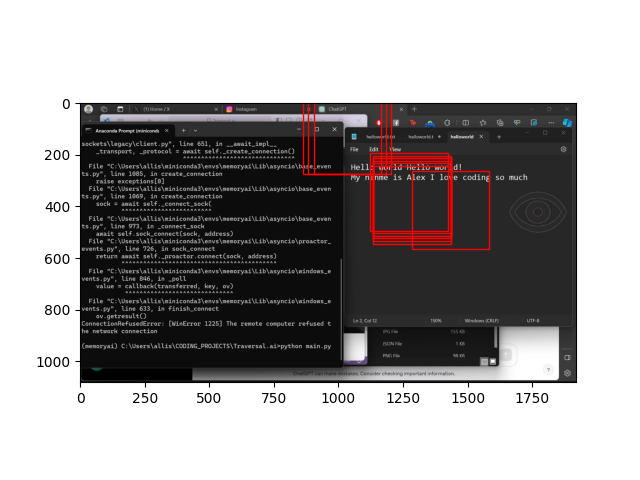
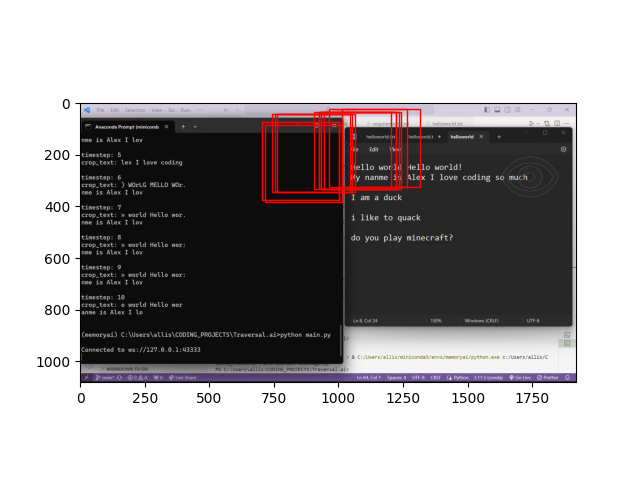
ideas for OCR

Changed region(s): [[0.125, 0.2188, 0.9062, 0.8125]]

diff --git a/readImage.py b/readImage.py
@@ -88,6 +88,10 @@ if __name__ == "__main__":
         r"c:\Users\allis\AppData\Local\Programs\Tesseract-OCR\tesseract.exe"
     )
 
-    # draw_on_image()
+    draw_on_image()
+    # look at the screenshot_with_draw image we've created, we need a way to intnelligently stitch
+    # these bounded boxes together and pass them through the OCR instead, of just individual screenshots.
+    # you have to also somehow do this with time as well, as you want the text to have an order, but first
+    # just start off overall.
 
     # read_image()
